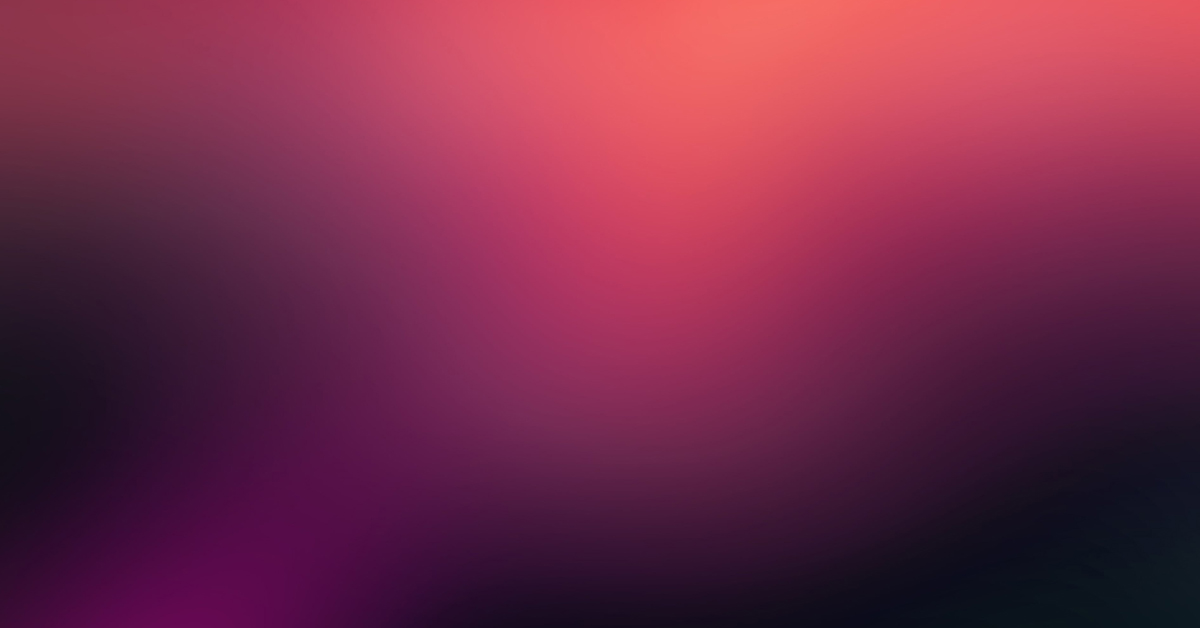
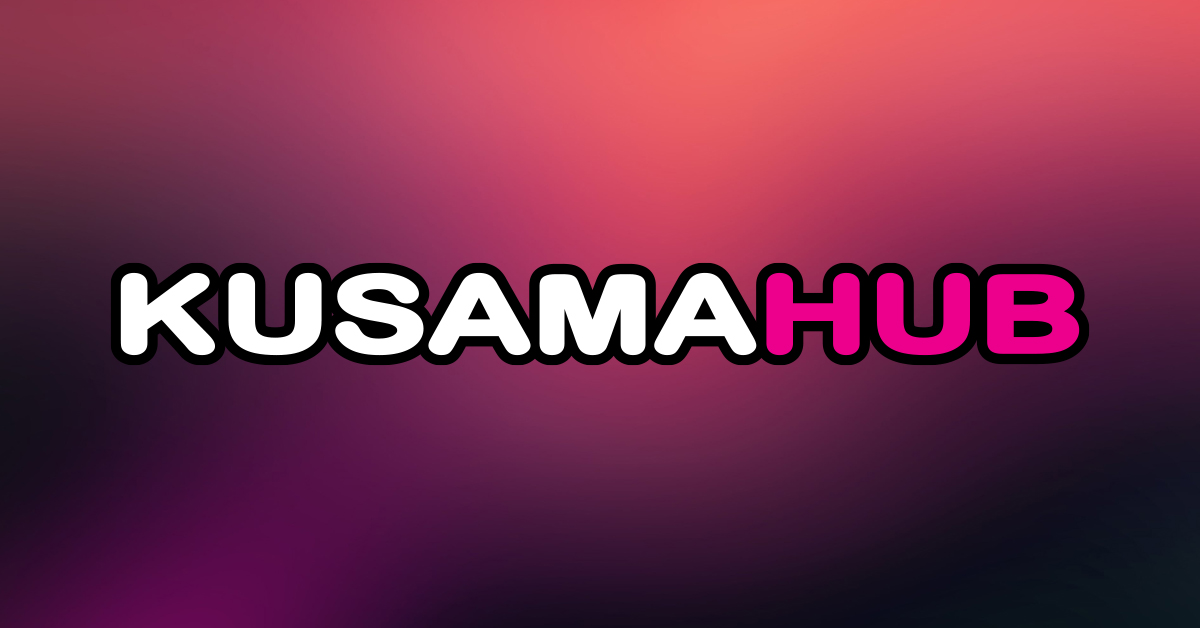
Update 2.0.1
+ Design copies current KusamaHub design code.
+ Added all current links
+ Removed CNAME (now this code hosting on KusamaHub Server)
+ Update image for <meta>
+ Added Readme file
+ Uploaded on server

Changed region(s): [[0.0925, 0.3933, 0.925, 0.6051]]

diff --git a/README.md b/README.md
@@ -1,0 +1,2 @@
+# links
+Static site contains all KusamaHub current links (aka Links Tree)
